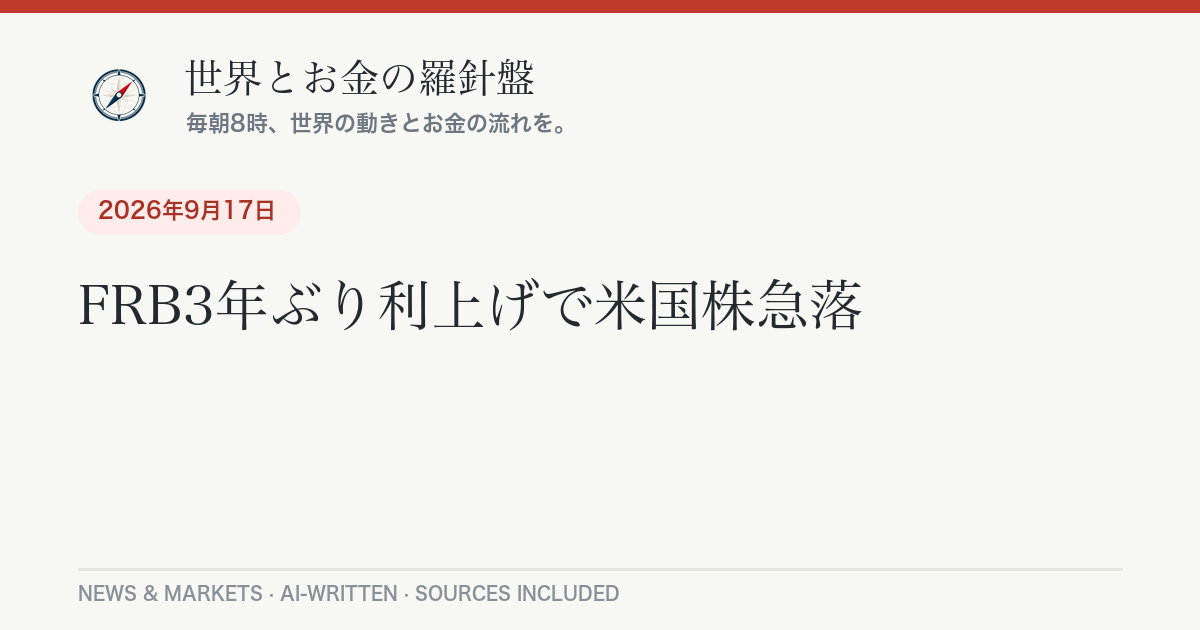
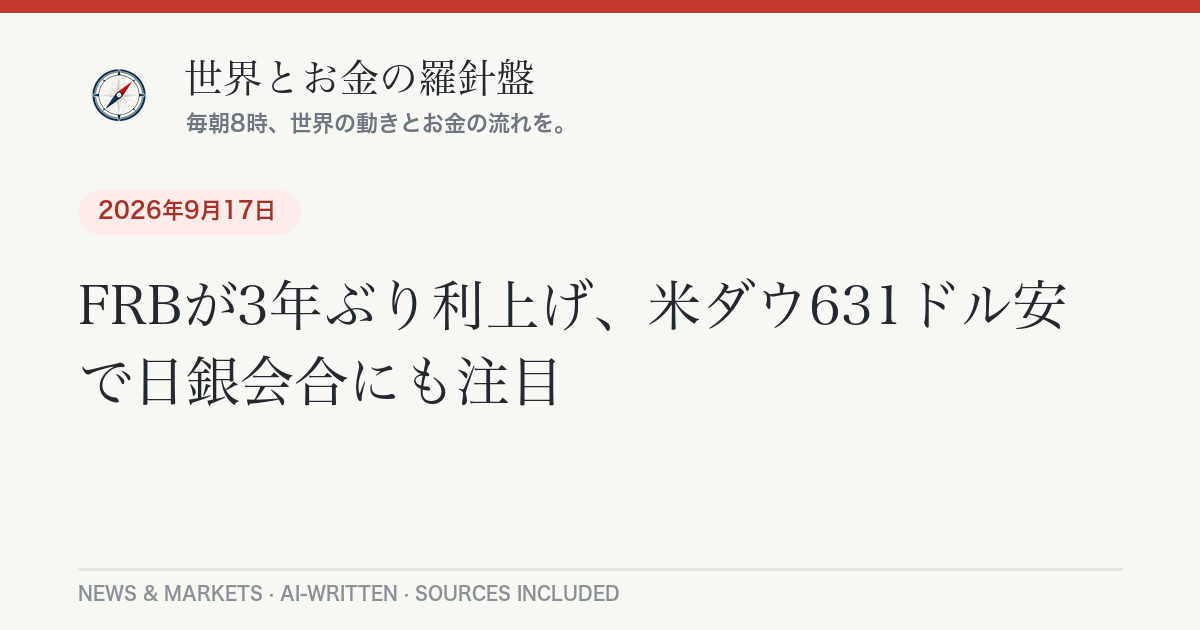
Daily briefing 2026-09-19

Changed region(s): [[0.1542, 0.4222, 0.8942, 0.5429], [0.0617, 0.573, 0.4625, 0.6635]]

diff --git a/_posts/2026-09-19-daily-briefing.md b/_posts/2026-09-19-daily-briefing.md
@@ -1,0 +1,98 @@
+---
+layout: post
+lang: ja
+title: "日銀とFRBがそろって利上げ、世界は金融引き締め局面へ｜9月19日のニュースとお金"
+date: 2026-09-19 07:39:07 +0900
+categories: [ニュース, 経済]
+headline: "日銀とFRBがそろって利上げ、世界は金融引き締め局面へ"
+permalink: /2026/09/19/daily-briefing/
+---
+
+## 今日のポイント
+
+日本銀行が18日、政策金利を1.25%程度に引き上げた。1995年以来、31年ぶりの高水準となる。米連邦準備制度理事会(FRB)も16日、2023年以来3年ぶりとなる利上げを決定しており、日米そろって「金融を引き締める」局面に入った。背景にあるのは原油高などによる物価上振れへの警戒。一方で株式市場は利上げを織り込み済みとして底堅く、日経平均・米国株ともに上昇する場面も見られた。
+
+## 今日の羅針盤（Compass Insight）
+
+今回の日米同時利上げで注目したいのは、両中央銀行が「インフレはまだ終わっていない」という同じ懸念を共有している点だ。[日銀の植田総裁は「連続的な利上げの可能性も排除しない」](https://www.nikkei.com/article/DGXZQOUB185520Y6A910C2000000/)と述べ、FRBも[18人中16人の政策委員が年内追加利上げを見込む](https://www.cnbc.com/2026/09/16/fed-rate-decision-september-2026.html)と発表した。つまり「今回で打ち止め」ではなく、しばらく利上げ局面が続くと市場は見ておいた方がよさそうだ。
+
+家計への影響で言えば、日本では住宅ローン(特に変動金利)の金利上昇が今後じわじわ効いてくる可能性がある。一方で円は対ドルで157円台後半と円安が続いており、輸入品や電気・ガス代など生活コストの高止まりも続きやすい。短期的には株式市場は「利上げ耐性あり」との見方で崩れていないが、中長期では日米の金利差・原油相場の動向が、円相場と物価の両方を左右する鍵になる。住宅ローンを控えている人、輸入コストの影響を受けやすい事業者は、この利上げペースの継続性に注目しておきたい。
+
+## 今日のニュース
+
+### 日本
+- [日銀が金融政策決定会合で政策金利を0.25%引き上げ1.25%程度とすることを決定](https://news.web.nhk/newsweb/na/nd-20260918de50968)。1995年以来31年ぶりの高水準。9人の政策委員のうち[2人が反対票を投じ、賛成多数での決定](https://www.nikkei.com/article/DGXZQOUB182840Y6A910C2000000/)となった。
+- [植田和男総裁は記者会見で、物価の上振れリスクを抑えるため「政策の局面が変化した」と説明](https://www.nikkei.com/article/DGXZQOUB185520Y6A910C2000000/)。連続的・大幅な利上げの可能性も「排除しない」とした。
+- [高市早苗首相は9月21〜24日の日程で米ニューヨークを訪問し、国連総会で一般討論演説を行う](https://news.web.nhk/newsweb/na/nd-20260910de49567)予定。あわせて[トランプ大統領との首脳会談も、対中認識のすり合わせを主眼に調整が進められている](https://news.web.nhk/newsweb/na/nd-20260919de51163)。
+
+### 世界・ヨーロッパ
+- ロシアが[ウクライナの首都キーウと東部ハルキウに新たな攻撃を実施](https://www.euronews.com/)。
+- [フランスのマクロン大統領は、ロシアによる「ハイブリッド攻撃」の激化を受け、重要インフラや防衛産業の拠点をドローン・サイバー攻撃から守るための防護計画の策定を政府に指示した](https://www.france24.com/en/france/20260918-macron-orders-plan-to-protect-france-critical-infrastructure-against-russian-hybrid-attacks)（18日）。今夏以降、ワルシャワ行き列車へのドローン攻撃やライプツィヒでの攻撃未遂など、ロシアによる攻撃が目立って増えているという。
+- 欧州委員会のフォンデアライエン委員長も、NATOの枠組みを補完する新たな安全保障戦略の策定を進めている。
+
+### アメリカ
+- [FRBが16日、政策金利を0.25%引き上げ3.75〜4.00%とすることを決定](https://www.cnbc.com/2026/09/16/fed-rate-decision-september-2026.html)。2023年7月以来、約3年ぶりの利上げとなった。採決は12対0の全会一致。
+- [トランプ大統領は18日、デンマーク・グリーンランドとの間でグリーンランドの安全保障に関する合意に達したと発表](https://www.bloomberg.com/news/articles/2026-09-18/trump-says-he-reached-security-deal-on-greenland-with-denmark)。米国の「敵対国」がグリーンランドに軍事拠点を置くことを排除する内容で、米軍のプレゼンス拡大も明言した。ただし当初トランプ氏が主張していた「グリーンランドの米国編入」には至らず、デンマークの主権自体は維持される。
+
+## 経済とお金の動き
+
+### 世界の経済・相場
+
+| 項目 | 値 | 前日比等 |
+|---|---|---|
+| ドル/円 | 157.89円（[ECB基準、9月18日付](https://api.frankfurter.app/latest?from=USD&to=JPY)） | 円安基調が継続 |
+| WTI原油 | [約101.21ドル/バレル（9月18日）](https://convextrade.com/today/oil-price) | 100ドル台の高止まり |
+
+原油はここ最近100ドル台の高値圏で推移している。物価の押し上げ要因として、日米両中央銀行の利上げ判断の背景にもなっている一方、[17日にはブレント原油が1%下落し1バレル104.82ドルとなったことがインフレ懸念を和らげ、株式市場の追い風になった](https://tarosoku.jp/2026/09/17/us-frb-rate-hike-impact-yen-economy/)との指摘もある。
+
+### アメリカの経済
+
+| 指標 | 値 | 前日比 |
+|---|---|---|
+| ダウ平均（9/18） | [51,682.64ドル](https://www.cnbc.com/2026/09/17/stock-market-today-live-updates.html) | <span class="chg-down">-95.40ドル（-0.18%）</span> |
+| S&P500（9/18） | 7,650.50 | <span class="chg-up">+0.17%</span> |
+| ナスダック（9/18） | 26,522.55 | <span class="chg-up">+0.39%</span> |
+
+FRBの利上げ自体は市場に織り込まれていたとみられ、[17日には10年物国債利回りが低下し、これを追い風にテクノロジー株が急伸](https://www.interactivecrypto.com/ja/frb-sep-2026-1789713717695)する場面もあった。堅調な雇用統計も相場を支えている。もっとも週を通してみればダウは下落しており、上昇一辺倒というわけではない。
+
+### 日本の経済
+
+| 指標 | 値 | 前日比 |
+|---|---|---|
+| 日経平均株価（9/18終値） | [65,018.95円](https://www.zaikei.co.jp/article/20260918/870698.html) | <span class="chg-up">+882.70円（+1.38%）</span> |
+
+日銀の利上げ決定にもかかわらず、日経平均は3日続伸した。[利上げが「景気の逆風にはならない」との受け止めが広がった](https://www.zaikei.co.jp/article/20260918/870698.html)ことが背景とみられる。ただし利上げが今後も続けば、企業の借入コストや住宅ローン金利への波及は避けられず、実体経済への影響は数カ月かけて表れてくる可能性がある。
+
+## 今日の注目銘柄・セクター
+
+- **テクノロジー株**：米長期金利の低下を追い風に、17日はナスダックがけん引役となり大きく上昇した。将来のキャッシュフローが重視される成長株にとって、金利低下は評価を押し上げる材料になりやすい。
+- **銀行・金融株**：日米そろっての利上げは、貸出金利と預金金利の利ざや(利益率)拡大につながりやすいとされ、金融セクターの動向が注目されている。
+- **エネルギー関連株**：WTI原油が100ドル台で高止まりする中、資源・エネルギー関連企業の業績への影響が引き続き意識されやすい局面。
+- **防衛関連株**：欧州でロシアの「ハイブリッド攻撃」への警戒が高まる中、マクロン大統領の防護計画表明など、欧州の防衛関連予算拡大への思惑が意識されやすい。
+
+*※特定銘柄の売買を推奨するものではありません。投資判断はご自身の責任で。*
+
+## まとめ：注目の3つ
+
+1. 日銀が政策金利を1.25%に引き上げ、31年ぶりの高水準に。FRBも3年ぶりの利上げで、日米そろって金融引き締め局面入り。
+2. 利上げにもかかわらず日経平均・米国株ともに底堅い動き。ただし住宅ローン金利や借入コストへの波及は今後じわじわ表れる可能性。
+3. トランプ大統領がグリーンランドの安全保障合意を発表する一方、欧州ではロシアの「ハイブリッド攻撃」への警戒が高まっている。高市首相は来週訪米し国連総会出席、トランプ氏との会談を調整中。
+
+---
+<div class="post-sources" markdown="1">
+
+**出典：**
+- [日銀 利上げ決定 政策金利1.25％程度へ｜NHKニュース](https://news.web.nhk/newsweb/na/nd-20260918de50968)
+- [日銀の植田総裁、連続・大幅利上げの可能性「排除せず」｜日本経済新聞](https://www.nikkei.com/article/DGXZQOUB185520Y6A910C2000000/)
+- [日銀1.25%への利上げ決定、物価上振れリスク抑制 2人が反対票｜日本経済新聞](https://www.nikkei.com/article/DGXZQOUB182840Y6A910C2000000/)
+- [高市首相 今月21日から国連総会出席で訪米を調整｜NHKニュース](https://news.web.nhk/newsweb/na/nd-20260910de49567)
+- [高市首相 日米首脳会談を調整 対中認識のすりあわせ図る｜NHKニュース](https://news.web.nhk/newsweb/na/nd-20260919de51163)
+- [Fed rate decision September 2026: Rates rise to 3.75%-4%｜CNBC](https://www.cnbc.com/2026/09/16/fed-rate-decision-september-2026.html)
+- [Macron orders plan to protect France's critical infrastructure against 'Russian hybrid attacks'｜France 24](https://www.france24.com/en/france/20260918-macron-orders-plan-to-protect-france-critical-infrastructure-against-russian-hybrid-attacks)
+- [Trump Says He Reached Security Deal on Greenland With Denmark｜Bloomberg](https://www.bloomberg.com/news/articles/2026-09-18/trump-says-he-reached-security-deal-on-greenland-with-denmark)
+- [日経平均大引け：前日比882.70円高の65018.95円｜財経新聞](https://www.zaikei.co.jp/article/20260918/870698.html)
+- 市場データ: [frankfurter API](https://api.frankfurter.app/) ／[WTI原油価格｜convextrade](https://convextrade.com/today/oil-price) ／[Stock market news for Sept. 18, 2026｜CNBC](https://www.cnbc.com/2026/09/17/stock-market-today-live-updates.html)
+
+*本記事は公開情報をもとに作成しています。*
+
+</div>

diff --git a/_posts/2026-09-19-daily-briefing-en.md b/_posts/2026-09-19-daily-briefing-en.md
@@ -1,0 +1,53 @@
+---
+layout: post
+lang: en
+title: "BOJ and Fed both hike rates, tightening cycle takes hold — September 19, 2026"
+date: 2026-09-19 07:39:07 +0900
+headline: "BOJ and Fed both hike rates, tightening cycle takes hold"
+permalink: /2026/09/19/daily-briefing/
+---
+
+## Top U.S. Stories
+
+- [The Federal Reserve raised its benchmark rate by 25 basis points to 3.75%-4.00% on September 16](https://www.cnbc.com/2026/09/16/fed-rate-decision-september-2026.html), its first hike since July 2023. The vote was unanimous, 12-0. *Why it matters:* the Fed had held rates steady all year; this marks a clear pivot toward tightening as inflation, driven partly by elevated oil prices, stays above target.
+- [16 of 18 Fed officials' projections point to at least one more rate hike later this year](https://www.cnbc.com/2026/09/16/fed-rate-decision-september-2026.html). *Why it matters:* markets should not treat this as a one-and-done move — borrowing costs are likely to keep climbing into 2027.
+- Despite the hike, [U.S. stocks held up well: the Nasdaq surged on September 17 as falling 10-year Treasury yields lifted tech shares](https://www.interactivecrypto.com/ja/frb-sep-2026-1789713717695), while a pullback in Brent crude eased inflation worries. *Why it matters:* investors are betting the Fed can tighten without derailing growth, at least for now — a bet that could unwind if oil or yields reverse.
+- [Dow closed at 51,682.64 (-0.18%), S&P 500 at 7,650.50 (+0.17%), and Nasdaq at 26,522.55 (+0.39%) on September 18](https://www.cnbc.com/2026/09/17/stock-market-today-live-updates.html), a mixed session after a volatile week in which the Dow lost more than 1.5%.
+- [President Trump announced a security agreement with Denmark giving the U.S. "permanent control" over Greenland's security](https://www.bloomberg.com/news/articles/2026-09-18/trump-says-he-reached-security-deal-on-greenland-with-denmark), barring rival powers from military access to the island, though sovereignty remains with Denmark — a step back from Trump's earlier push to annex the territory outright.
+- Japan's Prime Minister [Sanae Takaichi will travel to New York September 21-24 for the UN General Assembly](https://news.web.nhk/newsweb/na/nd-20260910de49567), and [a summit with President Trump is being arranged, with alignment on China policy as a central topic](https://news.web.nhk/newsweb/na/nd-20260919de51163).
+
+## Compass Insight
+
+The story under the story this week is that Tokyo and Washington are now moving in the same direction on inflation, just from different starting points. [The BOJ raised its policy rate to around 1.25%](https://news.web.nhk/newsweb/na/nd-20260918de50968) — a 31-year high — while [Governor Ueda said he would not rule out consecutive or larger hikes](https://www.nikkei.com/article/DGXZQOUB185520Y6A910C2000000/) if upside inflation risks persist. The Fed, meanwhile, just ended a three-year pause and most of its committee expects to keep going.
+
+For households, the near-term read is mixed: equity markets have so far shrugged off both hikes, treating them as already priced in, but the cost of carrying debt — mortgages, corporate borrowing — will climb gradually as these moves work through the economy. In the medium term, keep an eye on oil prices and the pace of further hikes on both sides of the Pacific: elevated crude is a shared driver of both central banks' inflation concerns, and any renewed spike would raise the odds of faster tightening rather than a pause. This is not investment advice, just a framework for what to watch.
+
+## Markets
+
+- USD/JPY: [¥157.89, per the ECB reference rate as of September 18](https://api.frankfurter.app/latest?from=USD&to=JPY)
+- WTI crude: [around $101.21/barrel on September 18](https://convextrade.com/today/oil-price), still elevated near the $100 mark
+- Nikkei 225 closed at [65,018.95 (+882.70, +1.38%) on September 18](https://www.zaikei.co.jp/article/20260918/870698.html), extending gains as investors judged the BOJ hike would not derail growth
+
+## Stocks in Focus
+
+- **Tech stocks** rallied on September 17 as falling long-term Treasury yields lifted growth names, with the Nasdaq outperforming.
+- **Bank and financial stocks** are in focus as wider rate differentials in both the U.S. and Japan could widen lending margins.
+- **Energy names** remain sensitive to WTI's stay above $100/barrel.
+- **European defense-linked stocks** are drawing attention as France's Macron ordered a plan to protect critical infrastructure from Russian "hybrid attacks."
+
+*※Not a recommendation to buy or sell any specific security. Investment decisions are your own responsibility.*
+
+---
+<div class="post-sources" markdown="1">
+
+**Sources:**
+- [Fed rate decision September 2026: Rates rise to 3.75%-4%](https://www.cnbc.com/2026/09/16/fed-rate-decision-september-2026.html)
+- [Stock market news for Sept. 18, 2026 — CNBC](https://www.cnbc.com/2026/09/17/stock-market-today-live-updates.html)
+- [Trump Says He Reached Security Deal on Greenland With Denmark — Bloomberg](https://www.bloomberg.com/news/articles/2026-09-18/trump-says-he-reached-security-deal-on-greenland-with-denmark)
+- [Macron orders plan to protect France's critical infrastructure against 'Russian hybrid attacks' — France 24](https://www.france24.com/en/france/20260918-macron-orders-plan-to-protect-france-critical-infrastructure-against-russian-hybrid-attacks)
+- [BOJ rate hike decision — NHK News](https://news.web.nhk/newsweb/na/nd-20260918de50968)
+- Market data: [frankfurter API](https://api.frankfurter.app/) / [WTI crude oil price — convextrade](https://convextrade.com/today/oil-price)
+
+*Auto-generated and AI-written. Not investment advice.*
+
+</div>
